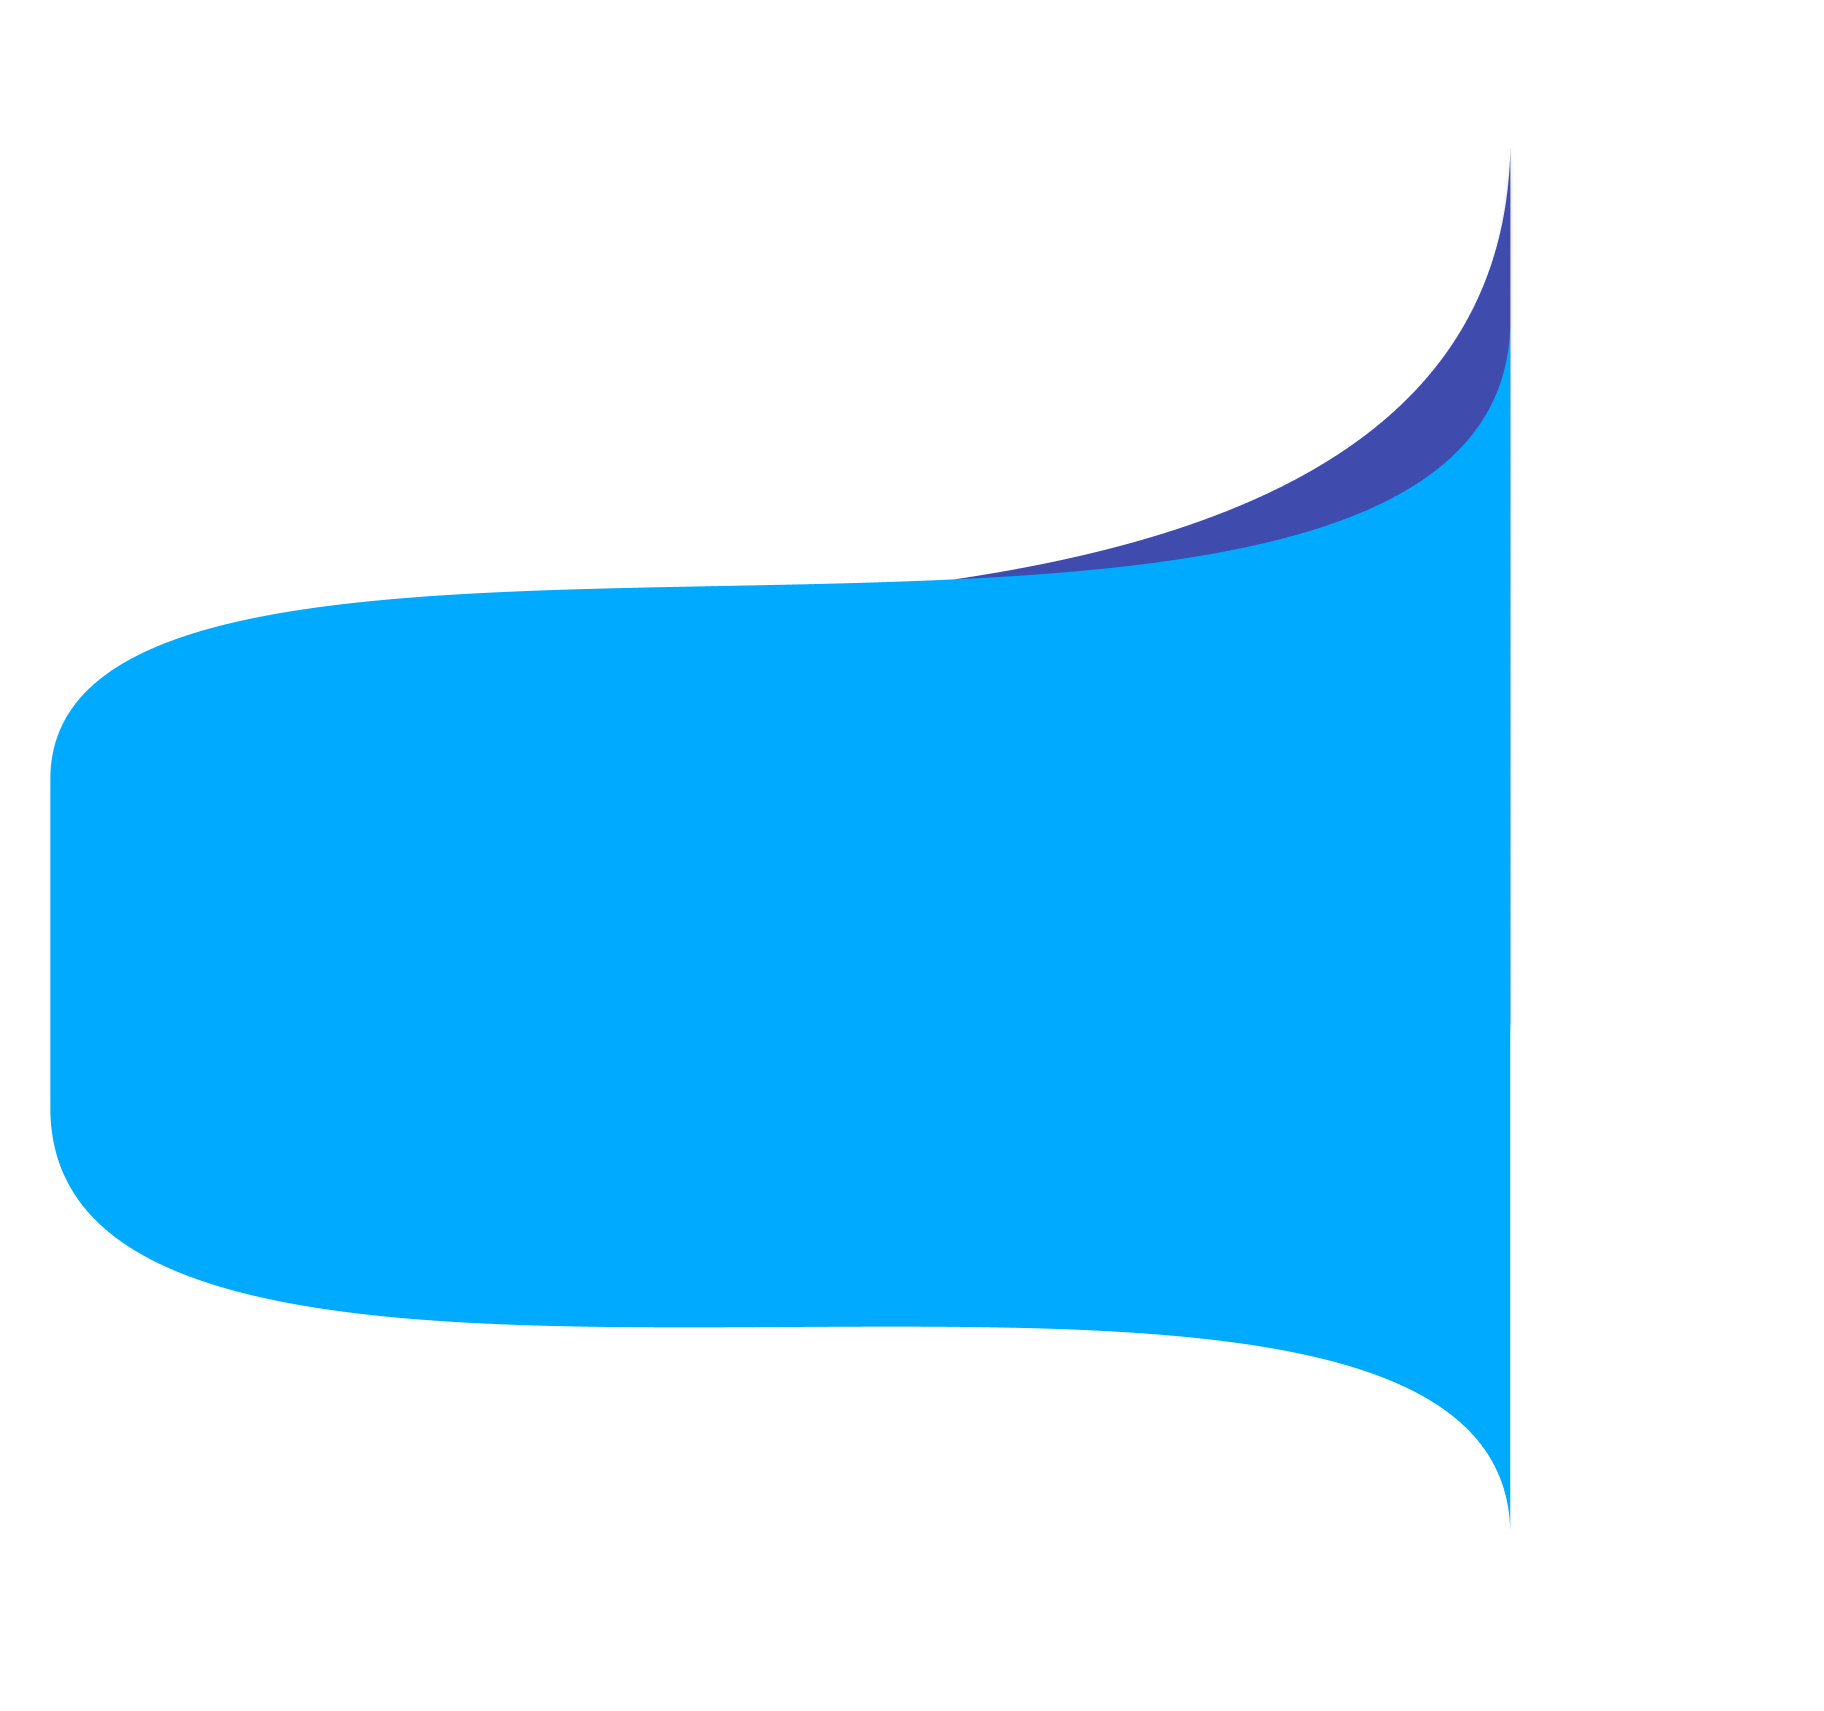
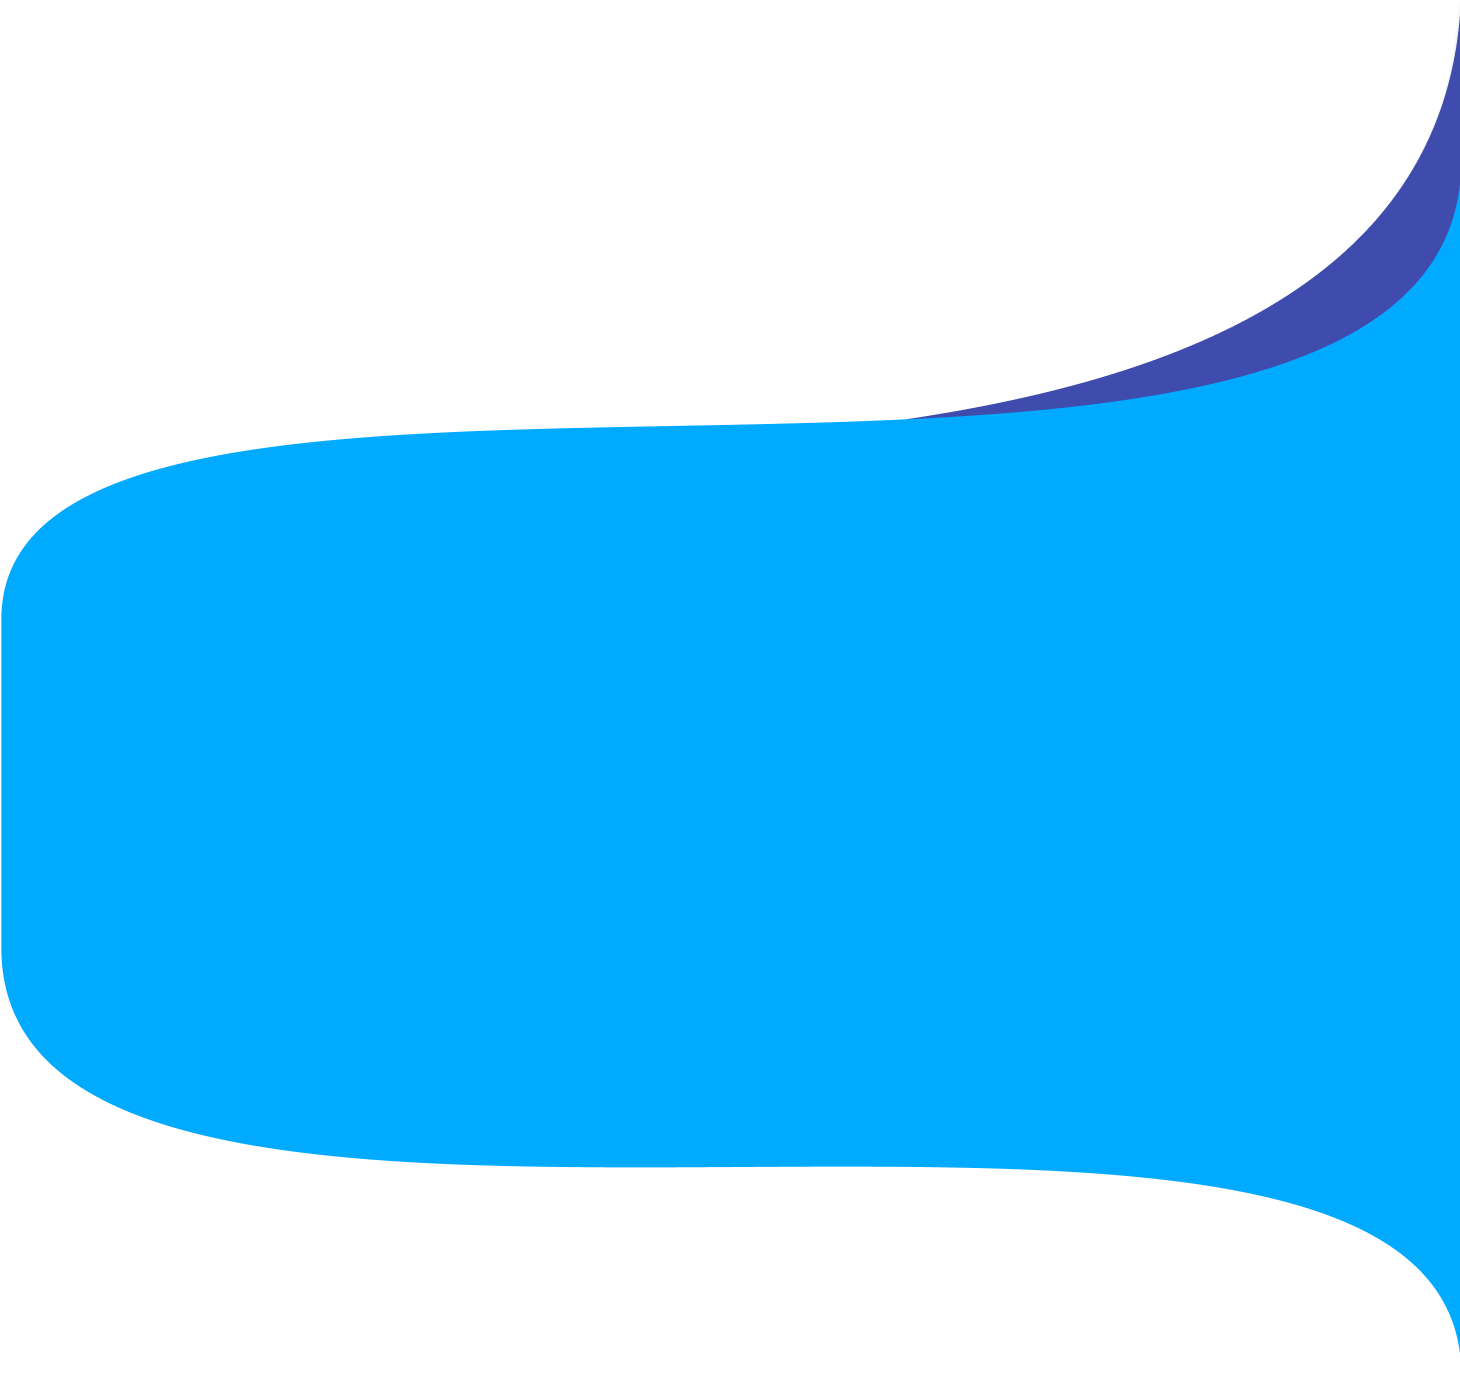
new image

Changed region(s): [[0.0, 0.031, 1.0, 0.9625]]

diff --git a/css/main.css b/css/main.css
@@ -63,10 +63,7 @@ body {
 }
 
 .explainer-background {
-    margin-top: -550px;
     z-index: -1;
-    margin-left: -50px;
-    width: 126%;
 }
 
 .explainer {
